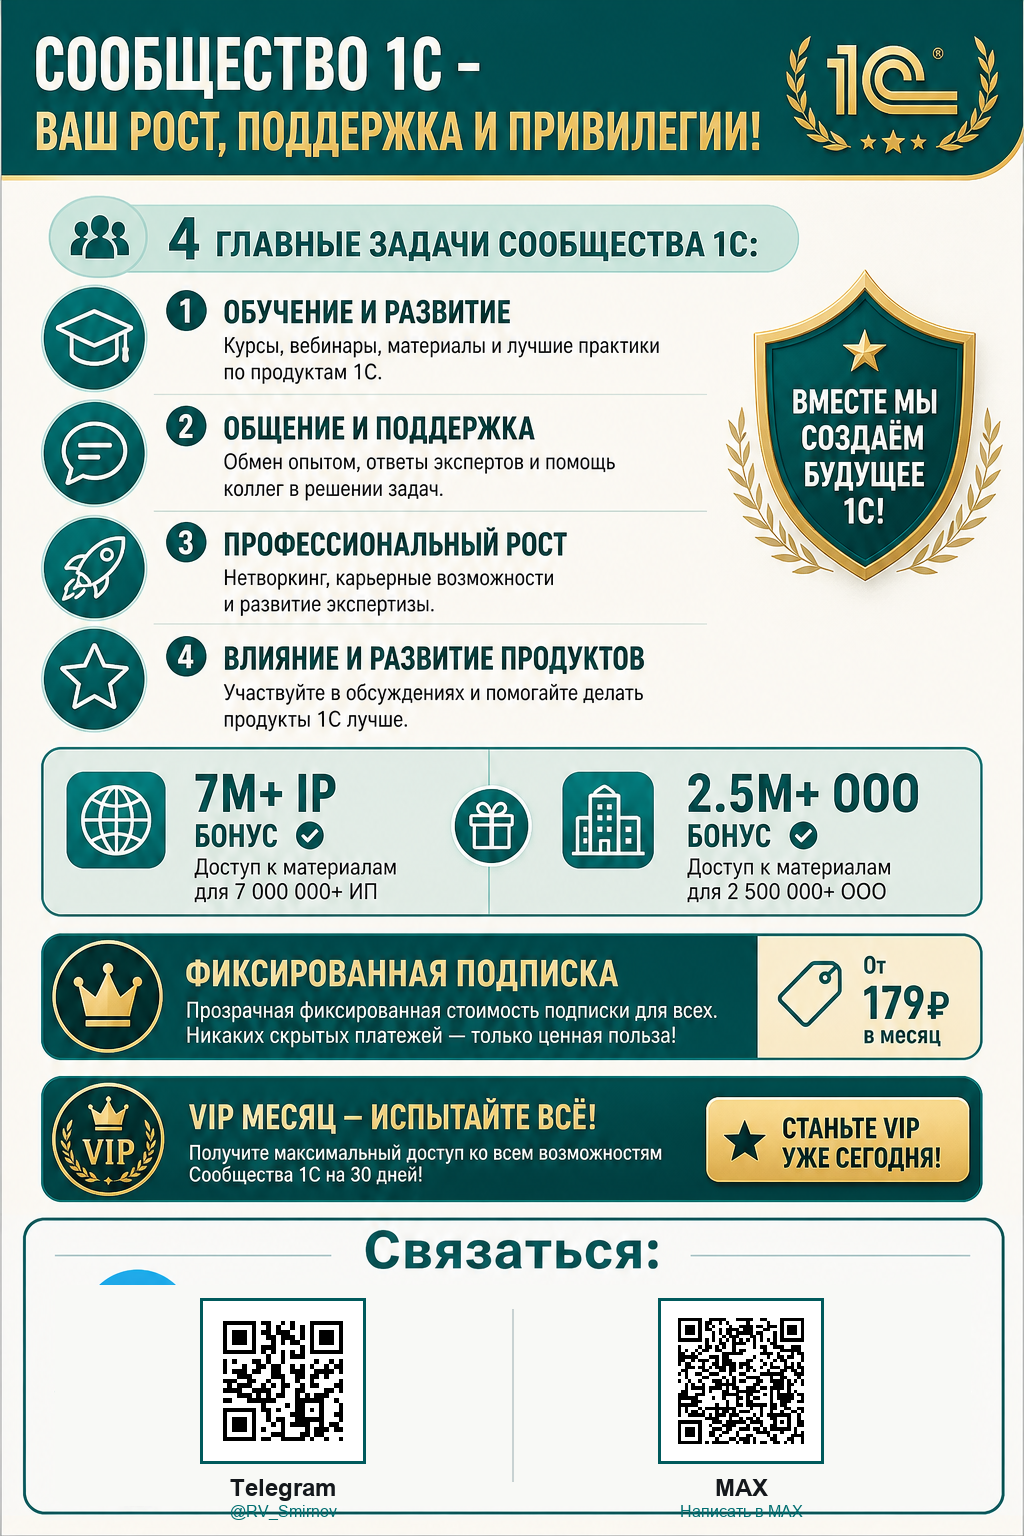
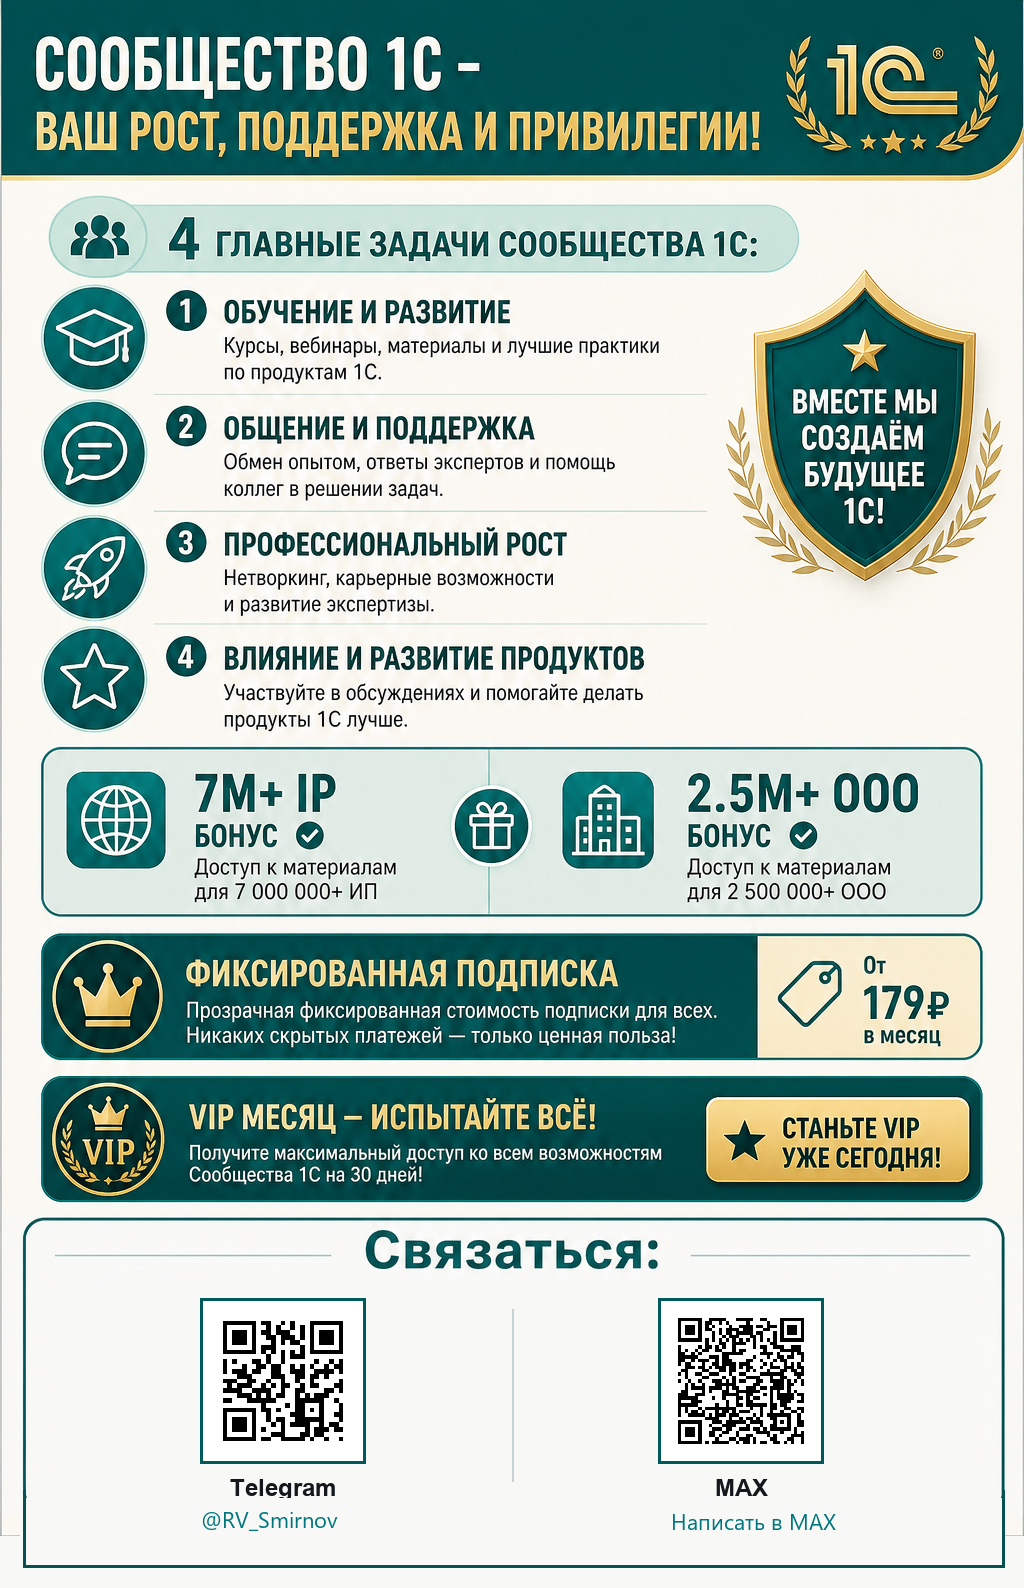
поправил рамку контактов на карточках оффера

diff --git a/ai2/index.html b/ai2/index.html
@@ -66,13 +66,13 @@
                 </div>
 
                 <figure class="hero-offer-image">
-                    <img src="img/1c-community-offer.png"
+                    <img src="img/1c-community-offer.png?v=4"
                         alt="1С Бизнес Клуб — инструмент, поддержка, свобода и программист"
                         width="800" height="1000" loading="lazy">
                 </figure>
 
                 <figure class="hero-offer-image">
-                    <img src="img/1c-rent-programmer-offer.png"
+                    <img src="img/1c-rent-programmer-offer.png?v=2"
                         alt="Аренда 1С + живой программист — тариф 5000 ₽"
                         width="800" height="1000" loading="lazy">
                 </figure>

diff --git a/ai2/style.css b/ai2/style.css
@@ -1331,7 +1331,7 @@
         }
         .hero-offer-image {
             margin: 0;
-            padding: 0;
+            padding: 8px 8px 12px;
             width: 50%;
             max-width: 50%;
             justify-self: center;
